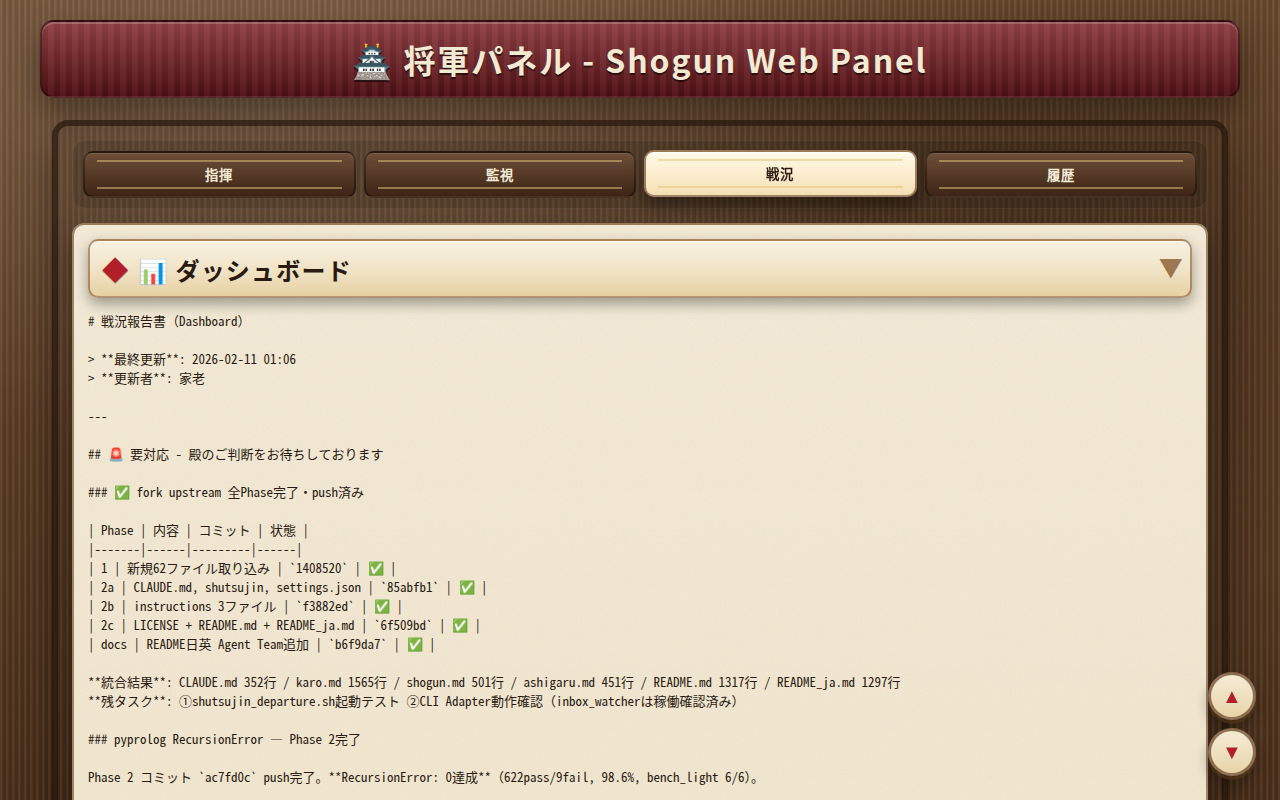
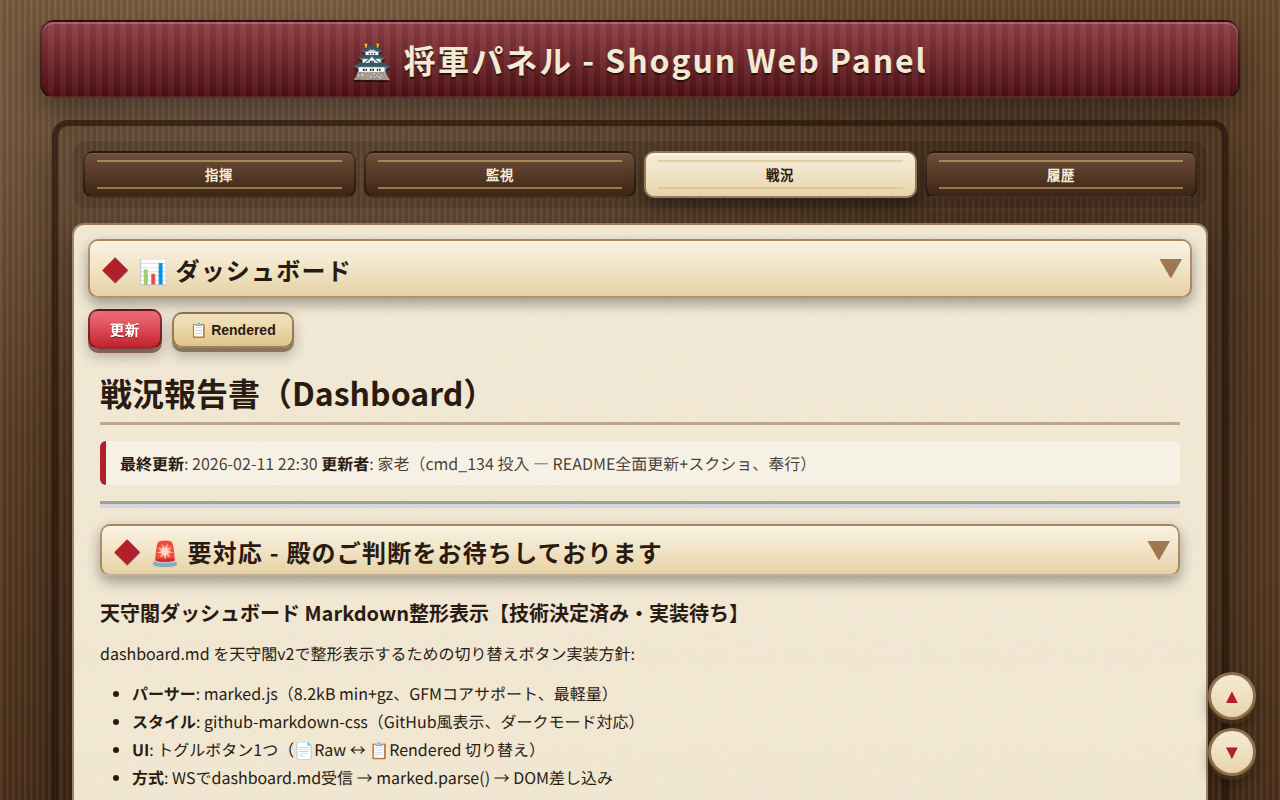
docs: update README and screenshots for markdown rendering, manual refresh, dark theme fix
Sync both README.md and README_ja.md with the current implementation:
- Dashboard: manual refresh button (auto-refresh removed), Raw/Rendered toggle
- Markdown rendering via marked.js + github-markdown-css with sengoku theme CSS
- WebSocket reconnection with exponential backoff and manual reconnect button
- Chat log UI, collapsible raw output, delta diff delivery
- Updated port from 30000 to 30001
- Added new files to project structure (ws/delta.py, new partials, new tests)
- Retake all 4 tab screenshots with current UI state

Changed region(s): [[0.0625, 0.5625, 0.9375, 1.0], [0.0625, 0.375, 0.9062, 0.5312], [0.5, 0.1875, 0.7188, 0.25]]

diff --git a/README_ja.md b/README_ja.md
@@ -14,21 +14,27 @@
 
 ### 指揮タブ
 
-将軍エージェントのtmuxペインに直接メッセージを送信する。Ctrl+Enterによるクイック送信と、Claude Codeの割り込みに使うEscapeキー送信ボタンを備える。ペイン出力は1秒間隔でリアルタイム更新。Top/Bottomスクロールボタンで長い出力のナビゲーションが可能。
+将軍エージェントのtmuxペインに直接メッセージを送信する。Ctrl+Enterによるクイック送信と、Claude Codeの割り込みに使うEscapeキー送信ボタンを備える。Top/Bottomスクロールボタンで長い出力のナビゲーションが可能。
 
-折りたたみ式の **TUI操作パネル** から、方向キー、Enter、Tab、Ctrl+Cなどのキーボード入力を直接送信可能。ブラウザを離れることなく対話型CLIインターフェースを操作できる。
+折りたたみ式の **TUI操作パネル** から、方向キー、Enter、Tab、Space、Backspace、数字キー（0-9）、Yes/No確認ボタンなどのキーボード入力を直接送信可能。ブラウザを離れることなく対話型CLIインターフェースを操作できる。決定系キー（Enter、Escape、Yes、No）は誤操作防止のため1秒長押しで発動する。
+
+**会話ログ** セクションでは、対話形式のビューを表示する。ユーザーの送信メッセージは青色、将軍の応答は金色で表示される。tmuxペインの生出力は会話ログの下の折りたたみセクションで確認可能。
 
 ![指揮タブ](assets/screenshots/tab-command.png)
 
 ### 監視タブ
 
-全エージェントペインをグリッドレイアウトでリアルタイム表示。更新間隔は設定可能（デフォルト5秒）。**監視クリア** ボタンでtmuxペイン履歴に影響を与えずに表示をリセット可能（非破壊的）。
+全エージェントペインをグリッドレイアウトでリアルタイム表示。WebSocketデルタ更新により効率的な帯域使用を実現。更新間隔は設定可能（デフォルト5秒）。**表示クリア** ボタンでtmuxペイン履歴に影響を与えずに表示をリセット可能（非破壊的）。ユーザー入力行はライトブルーでハイライトされ、視認性が高い。
 
 ![監視タブ](assets/screenshots/tab-monitor.png)
 
 ### 戦況タブ
 
-`dashboard.md` の戦況報告書をレンダリング。タスク進行状況、ブロッカー、スキル候補、本日の戦果を5秒ごとに自動更新。
+`dashboard.md` の戦況報告書をレンダリング。タスク進行状況、ブロッカー、スキル候補、本日の戦果を表示。コンテンツは手動 **更新** ボタンによるオンデマンド読み込み（不要なAPIコールを削減するため自動更新は廃止）。
+
+**Raw/Renderedトグル** による2つの表示モードに対応:
+- **Renderedモード**（デフォルト）: [marked.js](https://marked.js.org/) と [github-markdown-css](https://github.com/sindresorhus/github-markdown-css) を使用してMarkdownをパース。テーブル、見出し、コードブロック、引用など各要素に戦国テーマのカスタムCSS適用。
+- **Rawモード**: 元のMarkdownソーステキストをそのまま表示。
 
 ![戦況タブ](assets/screenshots/tab-dashboard.png)
 
@@ -45,12 +51,13 @@
     │
     ├── GET  /              → メインSPA（Jinja2テンプレート + htmx）
     ├── POST /api/command   → tmux send-keys で将軍ペインに送信
-    ├── POST /api/special-key → Escキー送信（許可リスト方式）
+    ├── POST /api/special-key → 特殊キー送信（許可リスト方式）
     ├── POST /api/monitor/clear → 監視表示クリア（非破壊的）
-    ├── GET  /api/dashboard → dashboard.md 読み取り
+    ├── GET  /api/dashboard → dashboard.md 読み取り（データコンテナで生markdown返却）
     ├── GET  /api/history   → shogun_to_karo.yaml 読み取り
-    ├── WS   /ws            → 将軍ペインのリアルタイム出力
-    └── WS   /ws/monitor    → 全ペインリアルタイム監視
+    ├── GET  /api/ws-config → WebSocket再接続設定
+    ├── WS   /ws            → 将軍ペインのリアルタイム出力（デルタ配信）
+    └── WS   /ws/monitor    → 全ペインリアルタイム監視（デルタ配信）
     │
     ▼
 FastAPI + Uvicorn
@@ -69,10 +76,19 @@ tmuxセッション (shogun / multiagent)
 | バックエンド | FastAPI + Uvicorn |
 | テンプレート | Jinja2 |
 | フロントエンド | htmx 2.x + Vanilla JS |
-| WebSocket | FastAPI ネイティブ WebSocket |
+| WebSocket | FastAPI ネイティブ WebSocket（デルタ差分配信） |
+| Markdownレンダリング | marked.js + github-markdown-css |
 | tmux連携 | libtmux 0.53+ |
 | スタイリング | カスタムCSS（戦国テーマ） |
 | パッケージ管理 | uv |
+
+### WebSocket再接続
+
+WebSocket接続は `ReconnectingWebSocket` クラスにより以下の機能を提供:
+- 指数バックオフによる自動再接続（1秒〜30秒）
+- 最大3回のリトライ後に手動 **再接続** ボタンを表示
+- 瞬断非表示のためのUI表示遅延
+- 全閾値を `settings.yaml` から `/api/ws-config` 経由で取得（ハードコード禁止）
 
 ## セットアップ
 
@@ -99,7 +115,7 @@ uv sync
 ```yaml
 server:
   host: "0.0.0.0"
-  port: 30000
+  port: 30001
 
 bakuhu:
   base_path: "/path/to/multi-agent-bakuhu"
@@ -136,10 +152,10 @@ ui:
 ./restart.sh
 
 # 手動起動
-uv run uvicorn main:app --host 0.0.0.0 --port 30000
+uv run uvicorn main:app --host 0.0.0.0 --port 30001
 ```
 
-`http://<ホスト>:30000` でアクセス。
+`http://<ホスト>:30001` でアクセス。
 
 ## プロジェクト構成
 
@@ -149,26 +165,36 @@ multi-agent-shogun-tenshukaku/
 ├── ws/
 │   ├── broadcasters.py     # ブロードキャストマネージャ（将軍 + 監視）
 │   ├── dashboard_cache.py  # mtime ベースのダッシュボードキャッシュ
+│   ├── delta.py            # WebSocket更新用デルタ差分計算
 │   ├── handlers.py         # WebSocketハンドラ（将軍 + 監視）
 │   ├── runtime.py          # スレッドプール + 非同期ロック
 │   ├── state.py            # ペイン状態の差分検出（sha1）
 │   └── tmux_bridge.py      # tmuxセッション操作レイヤー
 ├── templates/
-│   ├── base.html            # ベーステンプレート（ヘッダ、フッタ、アセット）
+│   ├── base.html            # ベーステンプレート（ヘッダ、フッタ、CDNアセット）
 │   ├── index.html           # メインSPA（4タブ + JS）
 │   └── partials/
-│       └── history.html     # コマンド履歴パーシャル
+│       ├── history.html     # コマンド履歴パーシャル
+│       ├── output.html      # ペイン出力パーシャル
+│       └── status.html      # ステータス表示パーシャル
 ├── static/
-│   └── style.css            # 戦国テーマCSS
+│   └── style.css            # 戦国テーマCSS（Markdownオーバーライド含む）
 ├── config/
 │   └── settings.yaml        # サーバー・bakuhuパス・tmux・監視設定
 ├── tests/
-│   ├── test_api.py          # APIエンドポイントテスト
-│   ├── test_broadcasters.py # ブロードキャスターテスト
-│   ├── test_monitor.py      # 監視WebSocketテスト
-│   ├── test_tmux_bridge.py  # TmuxBridgeユニットテスト
-│   └── test_ws_core.py      # PaneState・DashboardCacheテスト
+│   ├── test_api.py                      # APIエンドポイントテスト
+│   ├── test_broadcasters.py             # ブロードキャスターテスト
+│   ├── test_dashboard_markdown.py       # ダッシュボードMarkdownレンダリングテスト（Playwright）
+│   ├── test_dashboard_refresh.py        # ダッシュボード手動更新テスト（Playwright）
+│   ├── test_dashboard_table_dark_theme.py # テーブルダークテーマCSSテスト（Playwright）
+│   ├── test_delta.py                    # デルタ差分計算テスト
+│   ├── test_monitor.py                  # 監視WebSocketテスト
+│   ├── test_sanitize.py                 # 入力サニタイズテスト
+│   ├── test_tmux_bridge.py              # TmuxBridgeユニットテスト
+│   ├── test_ws_core.py                  # PaneState・DashboardCacheテスト
+│   └── test_ws_endpoints.py             # WebSocketエンドポイントテスト
 ├── start.sh                 # 安全起動スクリプト
+├── restart.sh               # 開発用再起動スクリプト
 ├── pyproject.toml           # プロジェクトメタデータ & 依存関係
 └── assets/
     └── screenshots/         # UIスクリーンショット

diff --git a/README.md b/README.md
@@ -14,21 +14,27 @@ Tenshukaku provides a browser-based interface for commanding and monitoring a fl
 
 ### Command Tab (指揮)
 
-Send messages directly to the Shogun agent's tmux pane. Supports Ctrl+Enter for quick submission and an Escape key button to interrupt Claude Code when needed. Pane output updates every second in real time. Includes Top/Bottom scroll buttons for navigating long output.
+Send messages directly to the Shogun agent's tmux pane. Supports Ctrl+Enter for quick submission and an Escape key button to interrupt Claude Code when needed. Includes Top/Bottom scroll buttons for navigating long output.
 
-A collapsible **TUI Operation Panel** provides direct keyboard input: arrow keys, Enter, Tab, Ctrl+C, and other special keys — useful for navigating interactive CLI interfaces without leaving the browser.
+A collapsible **TUI Operation Panel** provides direct keyboard input: arrow keys, Enter, Tab, Space, Backspace, number keys (0-9), and Yes/No confirmation buttons — useful for navigating interactive CLI interfaces without leaving the browser. Critical keys (Enter, Escape, Yes, No) require a 1-second long-press to prevent accidental activation.
+
+The **Chat Log** section displays a conversation-style view of interactions: user messages appear in blue and shogun responses in gold. The raw tmux pane output is available in a collapsible section below the chat log.
 
 ![Command Tab](assets/screenshots/tab-command.png)
 
 ### Monitor Tab (監視)
 
-Real-time grid view of all agent panes. Update interval is configurable (default: 5 seconds). A **Clear Display** button resets the monitor view without affecting tmux pane history (non-destructive).
+Real-time grid view of all agent panes using WebSocket delta updates for efficient bandwidth usage. Update interval is configurable (default: 5 seconds). A **Clear Display** button resets the monitor view without affecting tmux pane history (non-destructive). User input lines are highlighted in light blue for easy identification.
 
 ![Monitor Tab](assets/screenshots/tab-monitor.png)
 
 ### Dashboard Tab (戦況)
 
-Renders the `dashboard.md` battle report — task progress, blockers, skill candidates, and daily achievements — updated automatically every 5 seconds.
+Renders the `dashboard.md` battle report — task progress, blockers, skill candidates, and daily achievements. Content is loaded on demand via a manual **Refresh** button (auto-refresh has been removed to reduce unnecessary API calls).
+
+Supports two display modes via a **Raw/Rendered toggle**:
+- **Rendered mode** (default): Parses markdown using [marked.js](https://marked.js.org/) with [github-markdown-css](https://github.com/sindresorhus/github-markdown-css), styled with custom Sengoku-era theme overrides for tables, headings, code blocks, blockquotes, and other elements.
+- **Raw mode**: Displays the original markdown source text as-is.
 
 ![Dashboard Tab](assets/screenshots/tab-dashboard.png)
 
@@ -45,12 +51,13 @@ Browser (HTTP + WebSocket)
     │
     ├── GET  /              → Main SPA (Jinja2 templates + htmx)
     ├── POST /api/command   → tmux send-keys to shogun pane
-    ├── POST /api/special-key → Send Escape key (allowlist-based)
+    ├── POST /api/special-key → Send special keys (allowlist-based)
     ├── POST /api/monitor/clear → Clear monitor display (non-destructive)
-    ├── GET  /api/dashboard → Read dashboard.md
+    ├── GET  /api/dashboard → Read dashboard.md (raw markdown in data container)
     ├── GET  /api/history   → Read shogun_to_karo.yaml
-    ├── WS   /ws            → Real-time shogun pane output
-    └── WS   /ws/monitor    → Real-time all-pane monitoring
+    ├── GET  /api/ws-config → WebSocket reconnection configuration
+    ├── WS   /ws            → Real-time shogun pane output (delta)
+    └── WS   /ws/monitor    → Real-time all-pane monitoring (delta)
     │
     ▼
 FastAPI + Uvicorn
@@ -69,10 +76,19 @@ tmux sessions (shogun / multiagent)
 | Backend | FastAPI + Uvicorn |
 | Templates | Jinja2 |
 | Frontend | htmx 2.x + Vanilla JS |
-| WebSocket | FastAPI native WebSocket |
+| WebSocket | FastAPI native WebSocket (delta diff delivery) |
+| Markdown Rendering | marked.js + github-markdown-css |
 | tmux Integration | libtmux 0.53+ |
 | Styling | Custom CSS (Sengoku-era theme) |
 | Package Manager | uv |
+
+### WebSocket Reconnection
+
+WebSocket connections use a `ReconnectingWebSocket` class with:
+- Automatic reconnection with exponential backoff (1s to 30s)
+- Maximum 3 retry attempts before showing a manual **Reconnect** button
+- UI display delay to suppress transient disconnection indicators
+- All thresholds derived from `settings.yaml` via `/api/ws-config` (no hardcoded values)
 
 ## Setup
 
@@ -99,7 +115,7 @@ Edit `config/settings.yaml`:
 ```yaml
 server:
   host: "0.0.0.0"
-  port: 30000
+  port: 30001
 
 bakuhu:
   base_path: "/path/to/multi-agent-bakuhu"
@@ -136,10 +152,10 @@ ui:
 ./restart.sh
 
 # Or manually
-uv run uvicorn main:app --host 0.0.0.0 --port 30000
+uv run uvicorn main:app --host 0.0.0.0 --port 30001
 ```
 
-Access at `http://<your-host>:30000`
+Access at `http://<your-host>:30001`
 
 ## Project Structure
 
@@ -149,26 +165,36 @@ multi-agent-shogun-tenshukaku/
 ├── ws/
 │   ├── broadcasters.py     # Broadcast managers (shogun + monitor)
 │   ├── dashboard_cache.py  # mtime-based dashboard file cache
+│   ├── delta.py            # Delta diff computation for WebSocket updates
 │   ├── handlers.py         # WebSocket handlers (shogun + monitor)
 │   ├── runtime.py          # Thread pool executor + async lock
 │   ├── state.py            # Pane state diff detection (sha1)
 │   └── tmux_bridge.py      # tmux session interaction layer
 ├── templates/
-│   ├── base.html            # Base template (header, footer, assets)
+│   ├── base.html            # Base template (header, footer, CDN assets)
 │   ├── index.html           # Main SPA (4 tabs + JS)
 │   └── partials/
-│       └── history.html     # Command history partial
+│       ├── history.html     # Command history partial
+│       ├── output.html      # Pane output partial
+│       └── status.html      # Status display partial
 ├── static/
-│   └── style.css            # Sengoku-era themed CSS
+│   └── style.css            # Sengoku-era themed CSS (incl. markdown overrides)
 ├── config/
 │   └── settings.yaml        # Server, bakuhu path, tmux & monitor configuration
 ├── tests/
-│   ├── test_api.py          # API endpoint tests
-│   ├── test_broadcasters.py # Broadcaster unit tests
-│   ├── test_monitor.py      # Monitor WebSocket tests
-│   ├── test_tmux_bridge.py  # TmuxBridge unit tests
-│   └── test_ws_core.py      # PaneState & DashboardCache tests
+│   ├── test_api.py                      # API endpoint tests
+│   ├── test_broadcasters.py             # Broadcaster unit tests
+│   ├── test_dashboard_markdown.py       # Dashboard markdown rendering tests (Playwright)
+│   ├── test_dashboard_refresh.py        # Dashboard manual refresh tests (Playwright)
+│   ├── test_dashboard_table_dark_theme.py # Table dark theme CSS tests (Playwright)
+│   ├── test_delta.py                    # Delta diff computation tests
+│   ├── test_monitor.py                  # Monitor WebSocket tests
+│   ├── test_sanitize.py                 # Input sanitization tests
+│   ├── test_tmux_bridge.py              # TmuxBridge unit tests
+│   ├── test_ws_core.py                  # PaneState & DashboardCache tests
+│   └── test_ws_endpoints.py             # WebSocket endpoint tests
 ├── start.sh                 # Safe startup script
+├── restart.sh               # Development restart script
 ├── pyproject.toml           # Project metadata & dependencies
 └── assets/
     └── screenshots/         # UI screenshots
